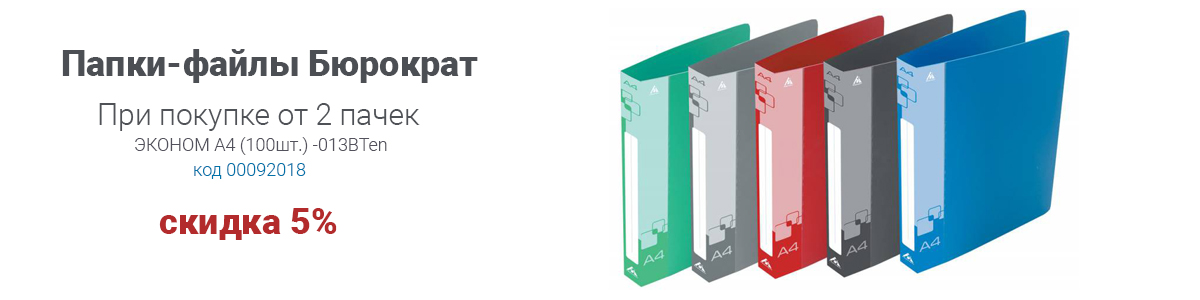
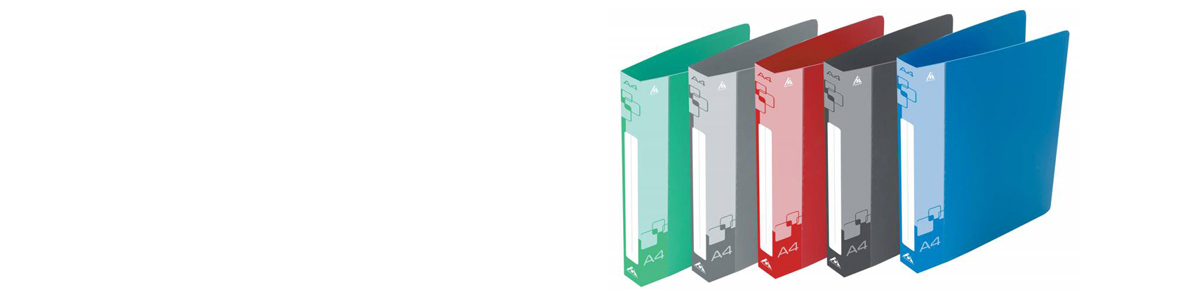
slider

diff --git a/stationery/static/frontend/scss/_index.scss b/stationery/static/frontend/scss/_index.scss
@@ -79,29 +79,60 @@
     }
 }
 /* ------------------------------------------------------------------------- */
+
+
 /* slider -------------------------------------------*/
 .swiper-container {
       width: 100%;
       height: 100%;
       padding-bottom: 30px;
+      background-color: white;
     }
     .swiper-slide {
       text-align: center;
       font-size: 18px;
-    /*  background: #fff;
-       Center slide text vertically
-      display: -webkit-box;
-      display: -ms-flexbox;
-      display: -webkit-flex;
-      display: flex;
-      -webkit-box-pack: center;
-      -ms-flex-pack: center;
-      -webkit-justify-content: center;
-      justify-content: center;
-      -webkit-box-align: center;
-      -ms-flex-align: center;
-      -webkit-align-items: center;
-      align-items: center;*/
+      }
+
+      .slide-bg {
+      position: absolute;
+      width: 500px;
+      height: auto;
+      bottom: 110px;
+      background-color: #2C7FAE;
+
+      & h1{
+        font: $fw-bold 26px/22px $ff-Roboto; 
+        color: white;
+        padding-top:10px;
+
+      } 
+      & p {
+      padding-left: 20px;
+      padding-right: 20px;
+      color: white;
+      font: 18px/22px $ff-Roboto;
+      }
+
+      & h3{
+        font: $fw-bold 26px/22px $ff-Roboto;
+        color: #D32F2F;
+      }
+      
+    }
+
+    .swiper-pagination-bullet {
+      width: 20px;
+      height: 20px;
+      text-align: center;
+      line-height: 20px;
+      font-size: 12px;
+      color:#000;
+      opacity: 1;
+      background: rgba(0,0,0,0.2);
+    }
+    .swiper-pagination-bullet-active {
+      color:#fff;
+      background: #007aff;
     }
 /* -------------------------------*/
 

diff --git a/stationery/apps/pages/templates/pages/frontend/index.html b/stationery/apps/pages/templates/pages/frontend/index.html
@@ -10,10 +10,18 @@
         <!-- Slides -->
         <div class="swiper-slide">
           <a href="#"><img src="/static/frontend/images/sl1.jpg" alt=""></a>
+          <div class="slide-bg">
+        		<h1>Папки с файлами БЮРОКРАТ</h1>
+        		<p>При покупке от двух пачек Эконом А4 (1000шт), Код: 00092018</p>
+        		<h3>Cкидка 5%!</h3>
+        	</div>
         </div>
-        <div class="swiper-slide"><a href="#"><img src="/static/frontend/images/sl2.jpg" alt=""></a></div>
+        <div class="swiper-slide"><a href="#">
+        	<img src="/static/frontend/images/sl2.jpg" alt=""></a>
+        </div>
         <!--<div class="swiper-slide">Slide 3</div>
         ...-->
+        <div class="swiper-pagination"></div>
     </div>
     <!-- If we need pagination -->
     <div class="swiper-pagination"></div>
